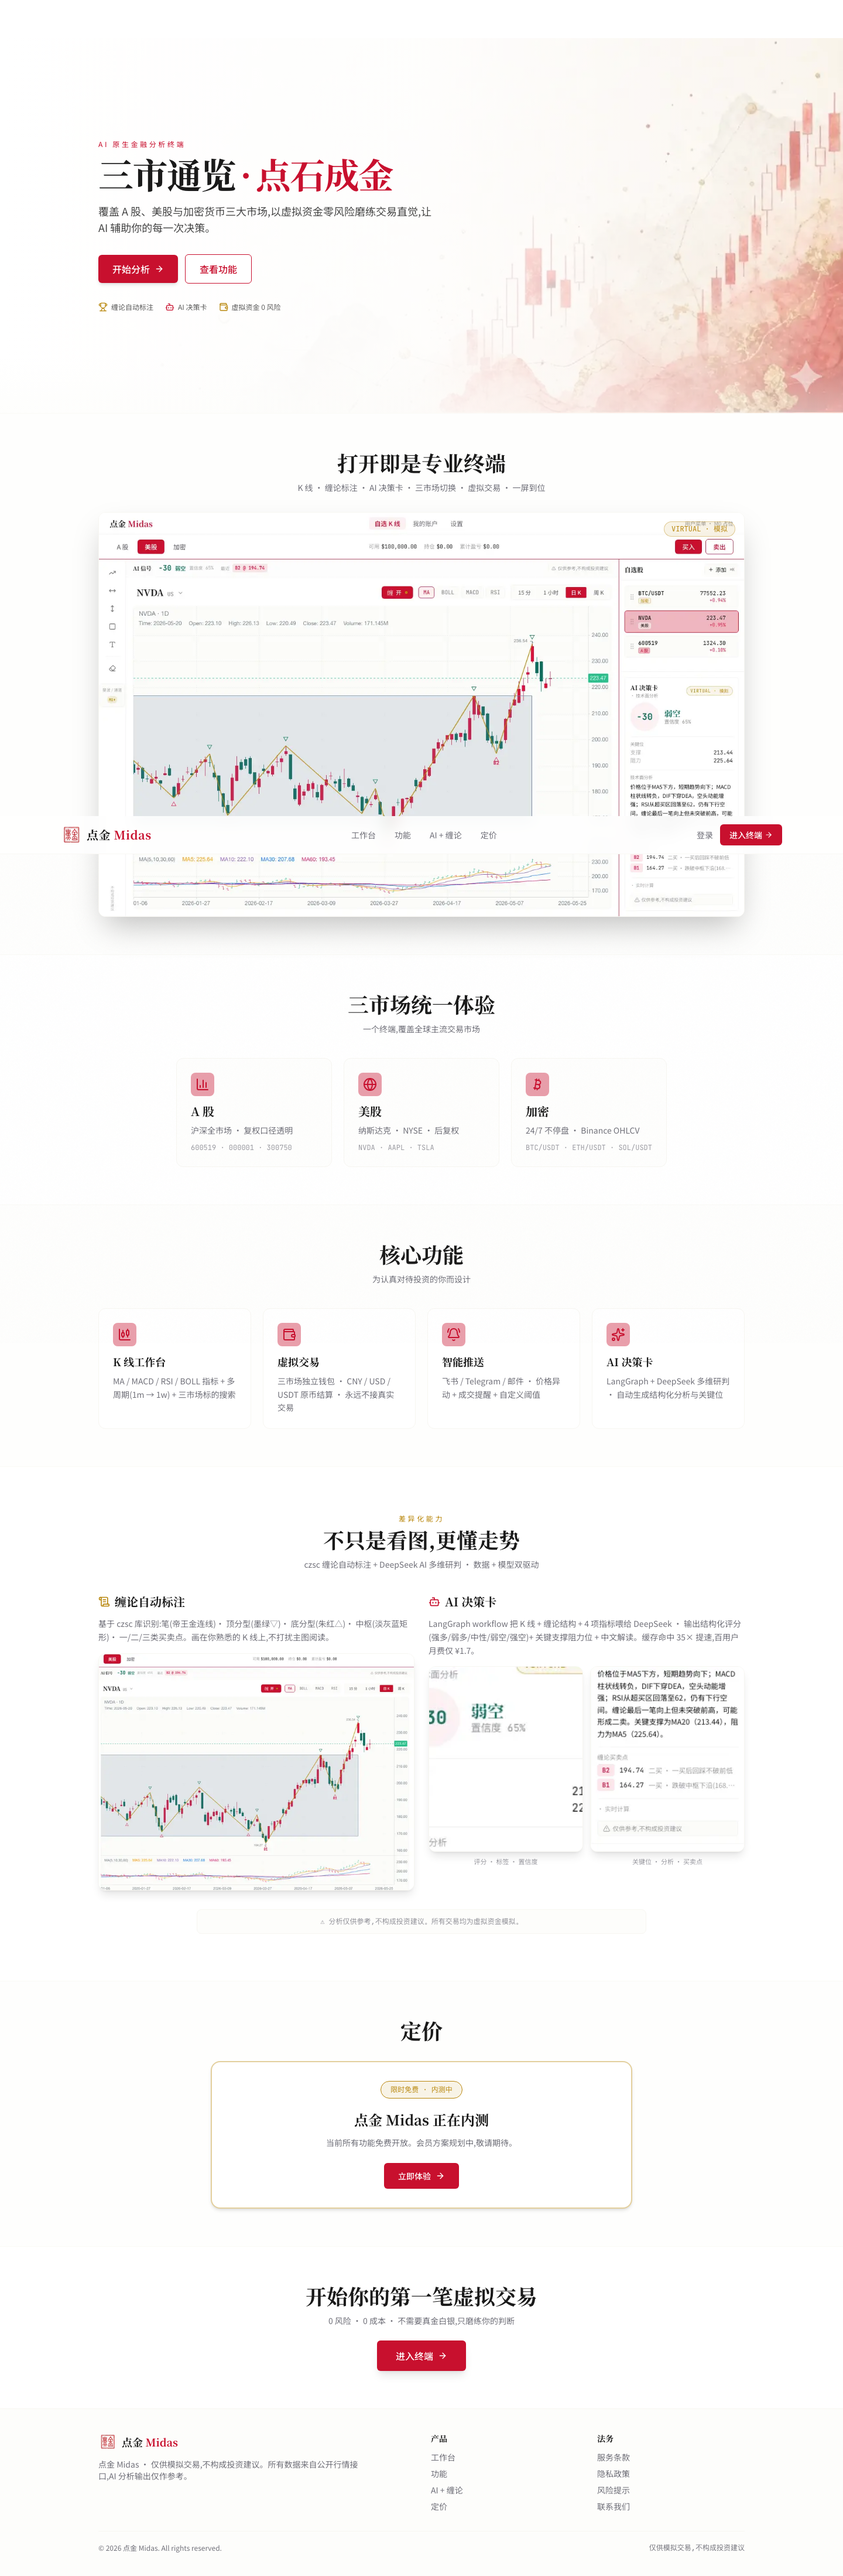
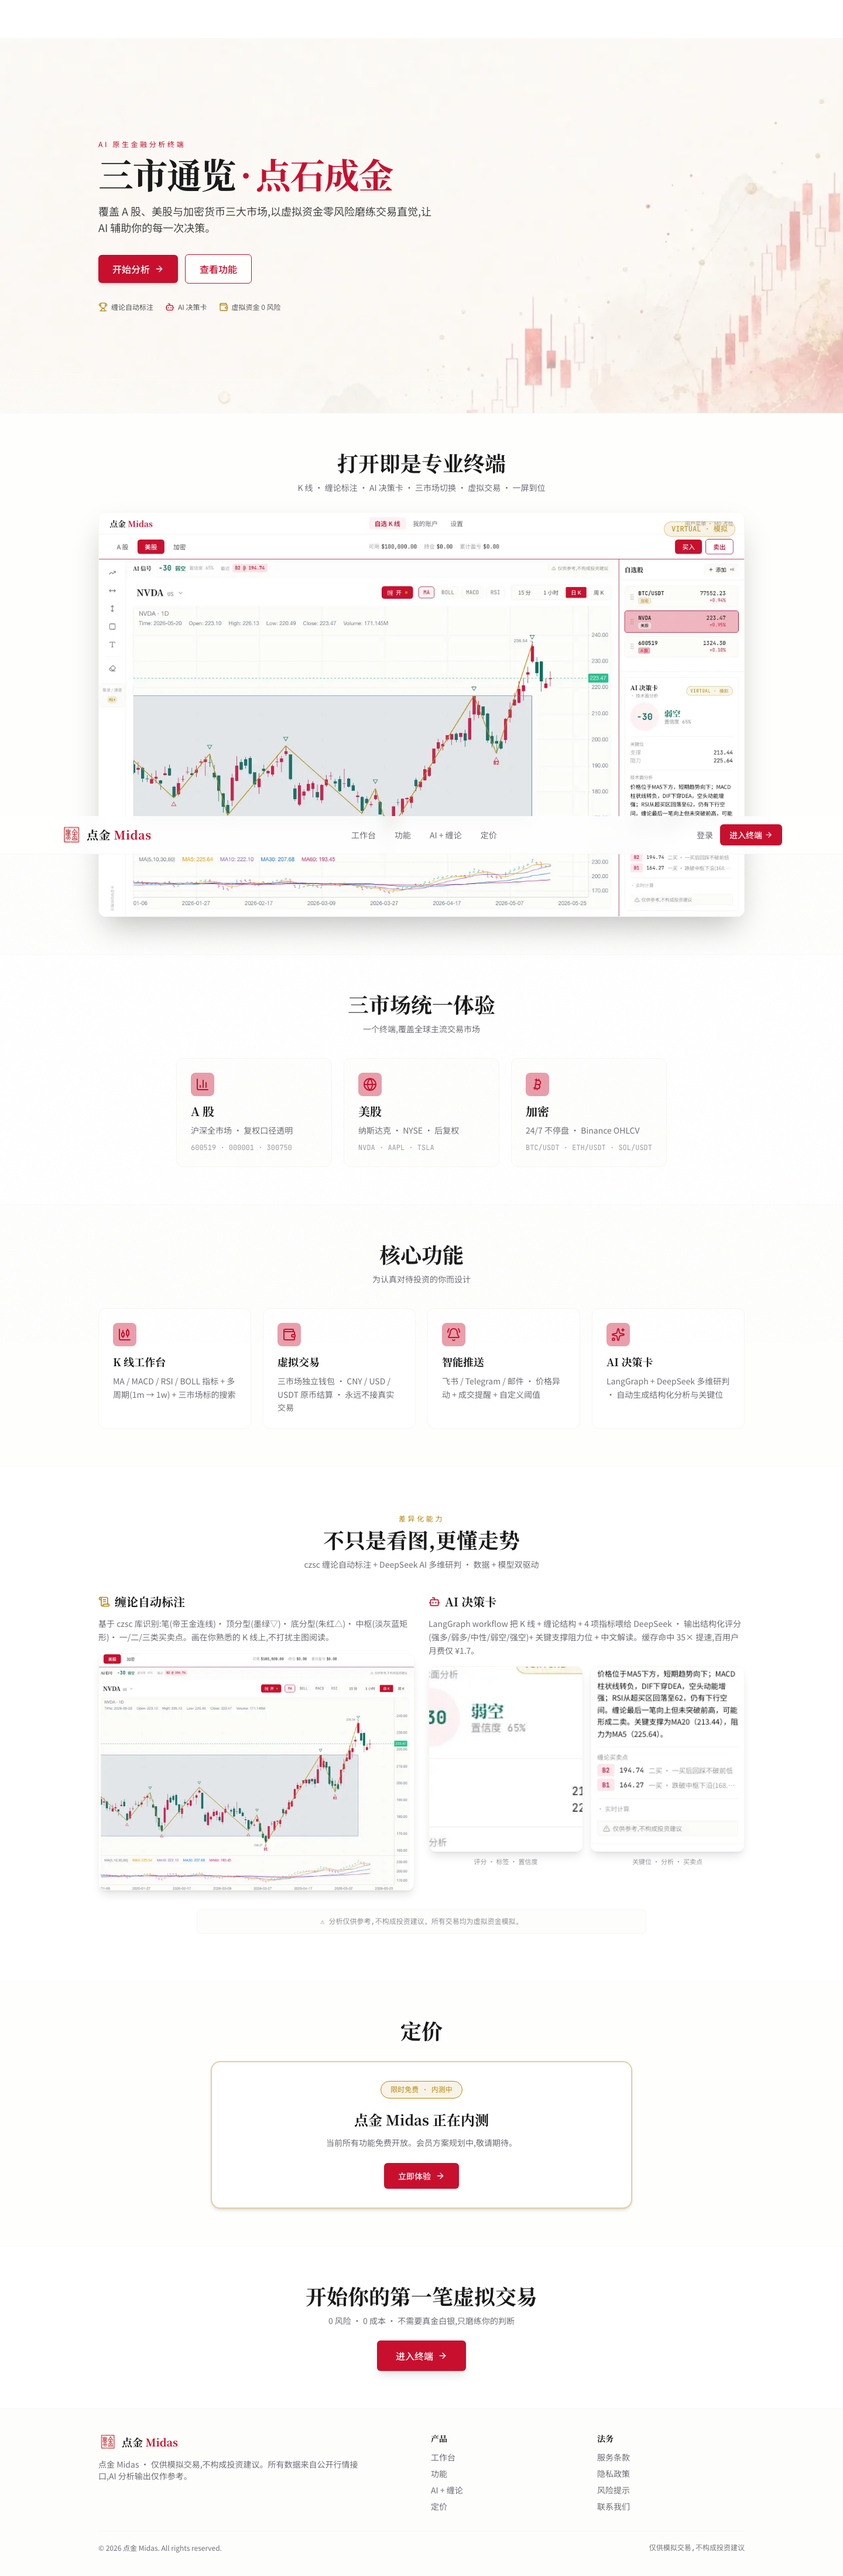
[Task M1-E v4] Hero 背景按 Manus 原版重做 · opacity 60% 居中铺满 · 去左侧遮罩
产品负责人 2026-05-21 v4 调整 · 参考 Manus 原版 Hero 实现方式。

问题(v3):
  · 背景图 object-position right 偏右 · 左空右浓 · 视觉重心不平衡
  · 米白渐变遮罩盖住左侧保对比度 · 是「治标」做法 · 图的清雅感被遮掉一半

Manus 原版做法(产品负责人提供参考):
  · absolute inset-0 + bg-cover bg-center · 等比覆盖 + 居中
  · opacity-60 · 背景图整体半透明 · 文字浮上去天然可读 · 不依赖遮罩

按这个重写:
  · Hero <Image fill className="object-cover object-center opacity-60" />
       · 居中铺满整个 Hero · 不再偏右
  · 移除左→右 米白渐变遮罩(from-background → transparent)
  · 保留底部柔和过渡到 cream(避免硬切到下一区)
  · 文字层不变 · 浮在半透明水墨之上 · 对比度由 opacity 保证

视觉效果:水墨像「宣纸上的淡墨」均匀铺满整个 Hero · 文字清晰浮于其上 ·
不再是「图是右边一块、字靠遮罩」的关系。

自验:
  · pnpm build · / 仍 SSG · 6.04 kB First Load
  · docker compose web 重建 · 真实访问
  · 重新截图:hero 区水墨均匀分布 · 视觉重心平衡 · 文字清晰
  · 整页归档:hero 与下一区 showcase 之间过渡自然

红线:不碰部署 / OAuth · 视觉严守白底中国红 · 截图真实完整态。

Changed region(s): [[0.75, 0.0312, 1.0, 0.1869], [0.625, 0.0935, 0.6875, 0.1558]]

diff --git a/apps/web/app/page.tsx b/apps/web/app/page.tsx
@@ -129,32 +129,29 @@ function Hero() {
   return (
     <section className="relative isolate overflow-hidden">
       {/*
-        全幅水墨背景 · 产品负责人 2026-05-21 v3 调整。
-        - hero-bg.png 用 next/image fill 模式 · object-cover 铺满 · 焦点偏右(水墨主体在右下)
-        - 不裁切变形 · 仅 cover · 手机上 object-position 偏右下保证文字区干净
+        全幅水墨背景 · 产品负责人 2026-05-21 v4 调整(参考 Manus 原版)。
+        关键三点:
+        - absolute inset-0 + bg-cover + bg-center · 图片等比铺满 + 居中(不偏右)
+        - opacity-60 · 背景图整体半透明 · 文字浮上去天然可读 · 不靠遮罩
+        - 米白页面背景透过半透明水墨 · 像"宣纸上的淡墨"均匀铺在 Hero
       */}
       <Image
         src="/brand/hero-bg.png"
         alt=""
         fill
         priority
-        className="object-cover object-right md:object-right-bottom"
+        className="object-cover object-center opacity-60"
         sizes="100vw"
         aria-hidden
       />
 
       {/*
-        左→右 渐变遮罩 · 米白半透明渐变到完全透明
-        · 文字所在左侧 75% 透明度高(对比度足) · 右侧让水墨自然露出
+        底部柔和过渡到下一区(showcase 的 cream 背景)· 避免硬切 · 保留
+        · 左侧米白遮罩已去掉 · 用 opacity 解决对比度问题
       */}
       <div
         aria-hidden
-        className="absolute inset-0 bg-gradient-to-r from-background via-background/85 to-transparent"
-      />
-      {/* 底部柔和过渡到下一区(showcase 的 cream 背景)· 避免硬切 */}
-      <div
-        aria-hidden
-        className="absolute inset-x-0 bottom-0 h-24 bg-gradient-to-b from-transparent to-cream/40"
+        className="absolute inset-x-0 bottom-0 h-20 bg-gradient-to-b from-transparent to-cream/40"
       />
 
       <div className="relative mx-auto flex min-h-[560px] max-w-6xl items-center px-6 py-20 lg:min-h-[640px] lg:py-28">
